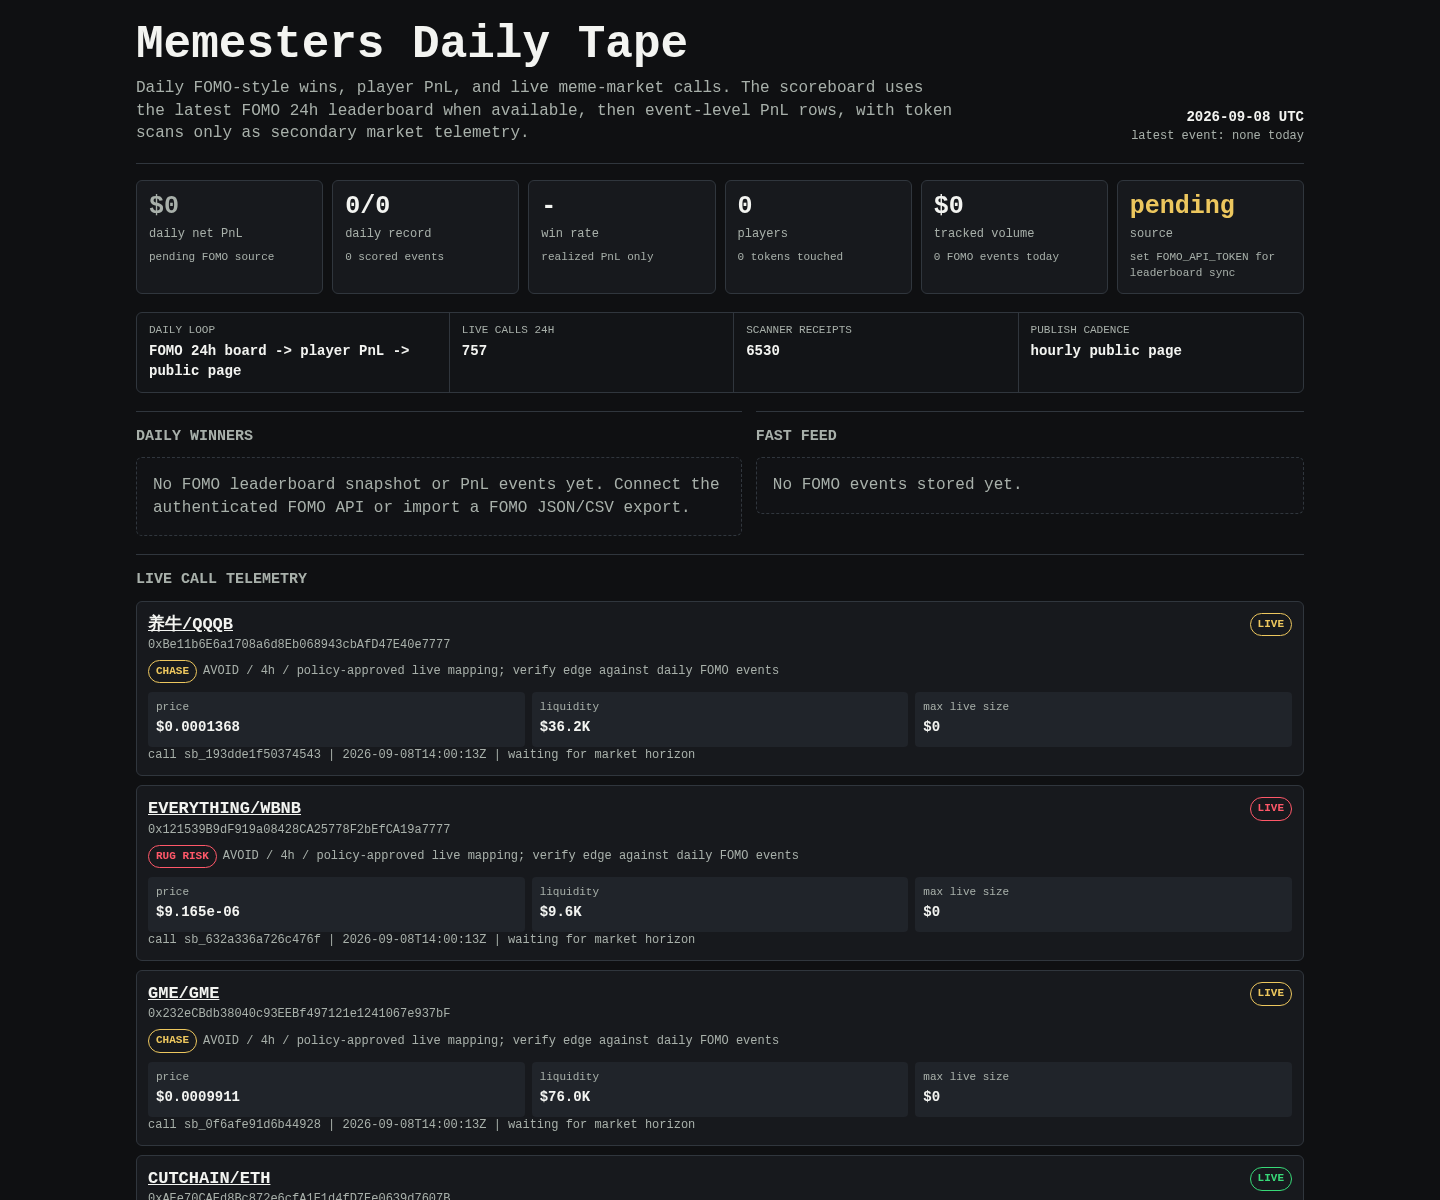
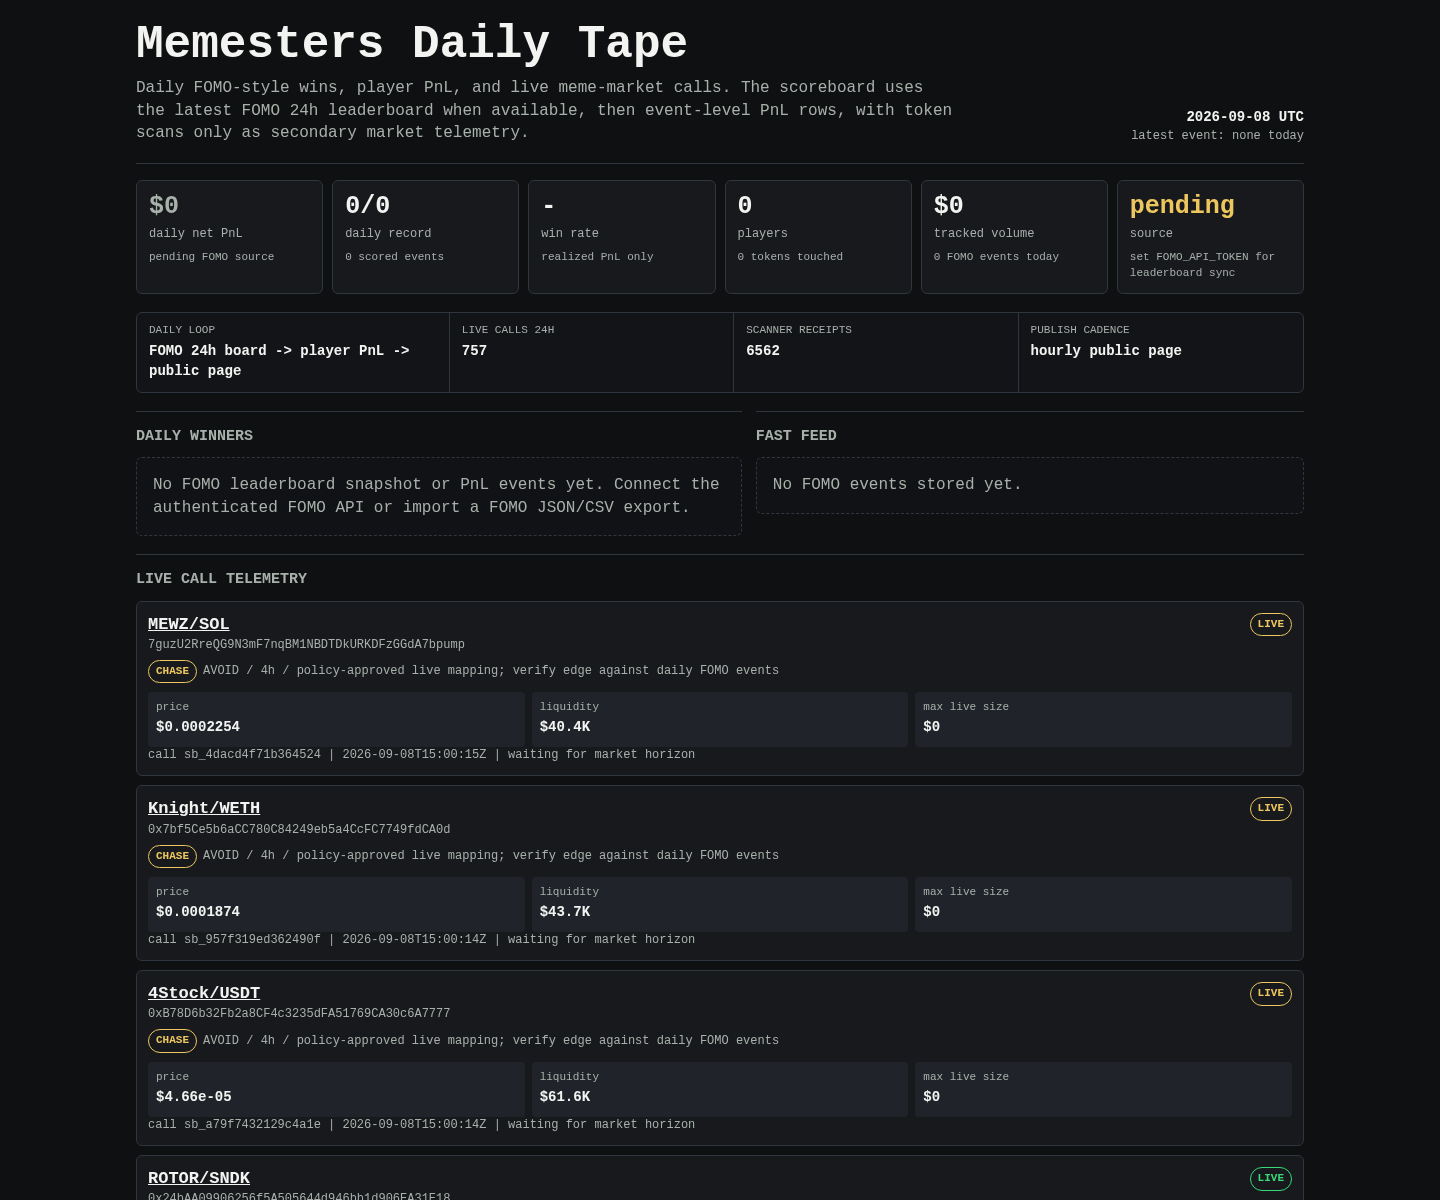
Update Memesters scoreboard

diff --git a/memesters/index.html b/memesters/index.html
@@ -150,7 +150,7 @@
     <div class="rail" aria-label="live operating loop">
       <div><span>daily loop</span><b>FOMO 24h board -> player PnL -> public page</b></div>
       <div><span>live calls 24h</span><b>757</b></div>
-      <div><span>scanner receipts</span><b>6530</b></div>
+      <div><span>scanner receipts</span><b>6562</b></div>
       <div><span>publish cadence</span><b>hourly public page</b></div>
     </div>
 
@@ -171,8 +171,8 @@
     <article class="receipt">
       <div class="receipt-head">
         <div>
-          <div class="pair"><a href="https://dexscreener.com/bsc/0x259a1f55db16469c0e1e3034feba8733e47dd4dd">养牛/QQQB</a></div>
-          <div class="addr">0xBe11b6E6a1708a6d8Eb068943cbAfD47E40e7777</div>
+          <div class="pair"><a href="https://dexscreener.com/solana/93apgx2vawkbi1dvvxtbjhcsqd69xvkgiqefv2qpwacf">MEWZ/SOL</a></div>
+          <div class="addr">7guzU2RreQG9N3mF7nqBM1NBDTDkURKDFzGGdA7bpump</div>
           <div class="addr policy-line">
             <span class="badge chase">CHASE</span>
             <span>AVOID / 4h / policy-approved live mapping; verify edge against daily FOMO events</span>
@@ -181,40 +181,19 @@
         <span class="badge chase">LIVE</span>
       </div>
       <div class="receipt-grid">
-        <div class="kv"><span>price</span><b>$0.0001368</b></div>
-        <div class="kv"><span>liquidity</span><b>$36.2K</b></div>
+        <div class="kv"><span>price</span><b>$0.0002254</b></div>
+        <div class="kv"><span>liquidity</span><b>$40.4K</b></div>
         <div class="kv"><span>max live size</span><b>$0</b></div>
       </div>
-      <div class="outcomes">call sb_193dde1f50374543 | 2026-09-08T14:00:13Z | waiting for market horizon</div>
+      <div class="outcomes">call sb_4dacd4f71b364524 | 2026-09-08T15:00:15Z | waiting for market horizon</div>
     </article>
     
 
     <article class="receipt">
       <div class="receipt-head">
         <div>
-          <div class="pair"><a href="https://dexscreener.com/bsc/0xb746cbcba7cfebb9752ec4aced53f336304e4366">EVERYTHING/WBNB</a></div>
-          <div class="addr">0x121539B9dF919a08428CA25778F2bEfCA19a7777</div>
-          <div class="addr policy-line">
-            <span class="badge rug-risk">RUG RISK</span>
-            <span>AVOID / 4h / policy-approved live mapping; verify edge against daily FOMO events</span>
-          </div>
-        </div>
-        <span class="badge rug-risk">LIVE</span>
-      </div>
-      <div class="receipt-grid">
-        <div class="kv"><span>price</span><b>$9.165e-06</b></div>
-        <div class="kv"><span>liquidity</span><b>$9.6K</b></div>
-        <div class="kv"><span>max live size</span><b>$0</b></div>
-      </div>
-      <div class="outcomes">call sb_632a336a726c476f | 2026-09-08T14:00:13Z | waiting for market horizon</div>
-    </article>
-    
-
-    <article class="receipt">
-      <div class="receipt-head">
-        <div>
-          <div class="pair"><a href="https://dexscreener.com/robinhood/0x859d334b7f0891a3eddf552db94d5a70b5849f027e066c46fd2c2cf2ffbc80ec">GME/GME</a></div>
-          <div class="addr">0x232eCBdb38040c93EEBf497121e1241067e937bF</div>
+          <div class="pair"><a href="https://dexscreener.com/robinhood/0x9dcd3297cd0349b1c0409e89417ed3a5ee35bef4">Knight/WETH</a></div>
+          <div class="addr">0x7bf5Ce5b6aCC780C84249eb5a4CcFC7749fdCA0d</div>
           <div class="addr policy-line">
             <span class="badge chase">CHASE</span>
             <span>AVOID / 4h / policy-approved live mapping; verify edge against daily FOMO events</span>
@@ -223,145 +202,19 @@
         <span class="badge chase">LIVE</span>
       </div>
       <div class="receipt-grid">
-        <div class="kv"><span>price</span><b>$0.0009911</b></div>
-        <div class="kv"><span>liquidity</span><b>$76.0K</b></div>
+        <div class="kv"><span>price</span><b>$0.0001874</b></div>
+        <div class="kv"><span>liquidity</span><b>$43.7K</b></div>
         <div class="kv"><span>max live size</span><b>$0</b></div>
       </div>
-      <div class="outcomes">call sb_0f6afe91d6b44928 | 2026-09-08T14:00:13Z | waiting for market horizon</div>
+      <div class="outcomes">call sb_957f319ed362490f | 2026-09-08T15:00:14Z | waiting for market horizon</div>
     </article>
     
 
     <article class="receipt">
       <div class="receipt-head">
         <div>
-          <div class="pair"><a href="https://dexscreener.com/robinhood/0xb4091c738e6b7f7140d838721348d38107240b05095b875c72702a6ea565cba6">CUTCHAIN/ETH</a></div>
-          <div class="addr">0xAEe70CAEd8Bc872e6cfA1E1d4fD7Ee0639d7607B</div>
-          <div class="addr policy-line">
-            <span class="badge early">EARLY</span>
-            <span>BUY / 1h / policy-approved live mapping; verify edge against daily FOMO events</span>
-          </div>
-        </div>
-        <span class="badge early">LIVE</span>
-      </div>
-      <div class="receipt-grid">
-        <div class="kv"><span>price</span><b>$9.454e-05</b></div>
-        <div class="kv"><span>liquidity</span><b>$28.2K</b></div>
-        <div class="kv"><span>max live size</span><b>$339</b></div>
-      </div>
-      <div class="outcomes">call sb_f6b70fbf320c42f7 | 2026-09-08T14:00:13Z | waiting for market horizon</div>
-    </article>
-    
-
-    <article class="receipt">
-      <div class="receipt-head">
-        <div>
-          <div class="pair"><a href="https://dexscreener.com/solana/harcsp1tb3kjmku5vmmzvneb1fptqmwewhzztusm2heh">HELIOS/SOL</a></div>
-          <div class="addr">BVZsoMQs7onokZNRtUW5nuZwgC4pD3Q6dgpXffnCpump</div>
-          <div class="addr policy-line">
-            <span class="badge early">EARLY</span>
-            <span>BUY / 1h / policy-approved live mapping; verify edge against daily FOMO events</span>
-          </div>
-        </div>
-        <span class="badge early">LIVE</span>
-      </div>
-      <div class="receipt-grid">
-        <div class="kv"><span>price</span><b>$3.536e-05</b></div>
-        <div class="kv"><span>liquidity</span><b>$14.2K</b></div>
-        <div class="kv"><span>max live size</span><b>$29</b></div>
-      </div>
-      <div class="outcomes">call sb_92449e3945d8453e | 2026-09-08T14:00:13Z | waiting for market horizon</div>
-    </article>
-    
-
-    <article class="receipt">
-      <div class="receipt-head">
-        <div>
-          <div class="pair"><a href="https://dexscreener.com/ethereum/0xb73aba09a9e0b1e80e5655d17c40420160a31b67">STARS/WETH</a></div>
-          <div class="addr">0xD71d0120072503eca8eeDe28db3EF6D30cae8BF0</div>
-          <div class="addr policy-line">
-            <span class="badge early">EARLY</span>
-            <span>BUY / 1h / policy-approved live mapping; verify edge against daily FOMO events</span>
-          </div>
-        </div>
-        <span class="badge early">LIVE</span>
-      </div>
-      <div class="receipt-grid">
-        <div class="kv"><span>price</span><b>$0.0004535</b></div>
-        <div class="kv"><span>liquidity</span><b>$44.3K</b></div>
-        <div class="kv"><span>max live size</span><b>$66</b></div>
-      </div>
-      <div class="outcomes">call sb_853b5f5b2a914e39 | 2026-09-08T14:00:12Z | waiting for market horizon</div>
-    </article>
-    
-
-    <article class="receipt">
-      <div class="receipt-head">
-        <div>
-          <div class="pair"><a href="https://dexscreener.com/robinhood/0x8c653197fa2caa94c4919b8e9cd07485cefb23a1d1b9237760125f7132144d47">WINDOGS/MSFT</a></div>
-          <div class="addr">0x4a87c129052c08387E95f9320CA30e4100d8c89f</div>
-          <div class="addr policy-line">
-            <span class="badge early">EARLY</span>
-            <span>BUY / 1h / policy-approved live mapping; verify edge against daily FOMO events</span>
-          </div>
-        </div>
-        <span class="badge early">LIVE</span>
-      </div>
-      <div class="receipt-grid">
-        <div class="kv"><span>price</span><b>$7.495e-05</b></div>
-        <div class="kv"><span>liquidity</span><b>$21.9K</b></div>
-        <div class="kv"><span>max live size</span><b>$215</b></div>
-      </div>
-      <div class="outcomes">call sb_6820166020d24de1 | 2026-09-08T14:00:12Z | waiting for market horizon</div>
-    </article>
-    
-
-    <article class="receipt">
-      <div class="receipt-head">
-        <div>
-          <div class="pair"><a href="https://dexscreener.com/solana/6kvf3u7yv8h66mbc6xc5vtfb44yzthxa6ge1xk6mrllc">FAUCET/xSOL</a></div>
-          <div class="addr">J7fdnqNcn52q5n5SJA65mtPuJXyf7KBVGgeUPzkxauL7</div>
-          <div class="addr policy-line">
-            <span class="badge early">EARLY</span>
-            <span>BUY / 1h / policy-approved live mapping; verify edge against daily FOMO events</span>
-          </div>
-        </div>
-        <span class="badge early">LIVE</span>
-      </div>
-      <div class="receipt-grid">
-        <div class="kv"><span>price</span><b>$6.734e-05</b></div>
-        <div class="kv"><span>liquidity</span><b>$22.2K</b></div>
-        <div class="kv"><span>max live size</span><b>$266</b></div>
-      </div>
-      <div class="outcomes">call sb_71ac5a489d694a91 | 2026-09-08T14:00:12Z | waiting for market horizon</div>
-    </article>
-    
-
-    <article class="receipt">
-      <div class="receipt-head">
-        <div>
-          <div class="pair"><a href="https://dexscreener.com/robinhood/0x9d11dc8a3e46f87fc8c7137cd562858396383bb2f48d4cbd4f8436ea712a5a07">SIGNAL/ETH</a></div>
-          <div class="addr">0xA01A789A9B9C55ac1052696775581191aD6fc27f</div>
-          <div class="addr policy-line">
-            <span class="badge rug-risk">RUG RISK</span>
-            <span>AVOID / 4h / policy-approved live mapping; verify edge against daily FOMO events</span>
-          </div>
-        </div>
-        <span class="badge rug-risk">LIVE</span>
-      </div>
-      <div class="receipt-grid">
-        <div class="kv"><span>price</span><b>$3.263e-05</b></div>
-        <div class="kv"><span>liquidity</span><b>$16.5K</b></div>
-        <div class="kv"><span>max live size</span><b>$0</b></div>
-      </div>
-      <div class="outcomes">call sb_4e63e8c8a7334754 | 2026-09-08T13:45:13Z | waiting for market horizon</div>
-    </article>
-    
-
-    <article class="receipt">
-      <div class="receipt-head">
-        <div>
-          <div class="pair"><a href="https://dexscreener.com/robinhood/0xb54487d2d14531c637d3bd8ff996db5607ae14ec">TRUMF/WETH</a></div>
-          <div class="addr">0xE5Cf55f3E3e8fD7daA0178357f4645A659648b39</div>
+          <div class="pair"><a href="https://dexscreener.com/bsc/0x893391aa480c03d88f61e96f4ee44fe3e9aaf247">4Stock/USDT</a></div>
+          <div class="addr">0xB78D6b32Fb2a8CF4c3235dFA51769CA30c6A7777</div>
           <div class="addr policy-line">
             <span class="badge chase">CHASE</span>
             <span>AVOID / 4h / policy-approved live mapping; verify edge against daily FOMO events</span>
@@ -370,11 +223,158 @@
         <span class="badge chase">LIVE</span>
       </div>
       <div class="receipt-grid">
-        <div class="kv"><span>price</span><b>$4.196e-06</b></div>
-        <div class="kv"><span>liquidity</span><b>$4.5K</b></div>
+        <div class="kv"><span>price</span><b>$4.66e-05</b></div>
+        <div class="kv"><span>liquidity</span><b>$61.6K</b></div>
         <div class="kv"><span>max live size</span><b>$0</b></div>
       </div>
-      <div class="outcomes">call sb_1948f2b2dda34e8f | 2026-09-08T13:45:13Z | waiting for market horizon</div>
+      <div class="outcomes">call sb_a79f7432129c4a1e | 2026-09-08T15:00:14Z | waiting for market horizon</div>
+    </article>
+    
+
+    <article class="receipt">
+      <div class="receipt-head">
+        <div>
+          <div class="pair"><a href="https://dexscreener.com/robinhood/0xd96714fb2b269d71cab49e35f94358359aca9a039673580fe503e585606cd78b">ROTOR/SNDK</a></div>
+          <div class="addr">0x24bAA09906256f5A505644d946bb1d906EA31E18</div>
+          <div class="addr policy-line">
+            <span class="badge early">EARLY</span>
+            <span>BUY / 1h / policy-approved live mapping; verify edge against daily FOMO events</span>
+          </div>
+        </div>
+        <span class="badge early">LIVE</span>
+      </div>
+      <div class="receipt-grid">
+        <div class="kv"><span>price</span><b>$2.372e-05</b></div>
+        <div class="kv"><span>liquidity</span><b>$23.6K</b></div>
+        <div class="kv"><span>max live size</span><b>$70</b></div>
+      </div>
+      <div class="outcomes">call sb_5b0a0b5da14a4a7e | 2026-09-08T15:00:14Z | waiting for market horizon</div>
+    </article>
+    
+
+    <article class="receipt">
+      <div class="receipt-head">
+        <div>
+          <div class="pair"><a href="https://dexscreener.com/robinhood/0x0a504567fa78c039aed9df5477a2dd26fde6290f">SGD/WETH</a></div>
+          <div class="addr">0xcd79F4F2ECEBd304e07438EA74D5a9e6BA4573e0</div>
+          <div class="addr policy-line">
+            <span class="badge chase">CHASE</span>
+            <span>AVOID / 4h / policy-approved live mapping; verify edge against daily FOMO events</span>
+          </div>
+        </div>
+        <span class="badge chase">LIVE</span>
+      </div>
+      <div class="receipt-grid">
+        <div class="kv"><span>price</span><b>$0.0001058</b></div>
+        <div class="kv"><span>liquidity</span><b>$32.8K</b></div>
+        <div class="kv"><span>max live size</span><b>$0</b></div>
+      </div>
+      <div class="outcomes">call sb_c76f85d526c64bb9 | 2026-09-08T15:00:14Z | waiting for market horizon</div>
+    </article>
+    
+
+    <article class="receipt">
+      <div class="receipt-head">
+        <div>
+          <div class="pair"><a href="https://dexscreener.com/bsc/0x72d7c5538514cbaeb5a77927db22fa7a987f07b5">困困喵崽/QQQB</a></div>
+          <div class="addr">0x9ed9c38E0faA3b639A40fF7184404E34Ac277777</div>
+          <div class="addr policy-line">
+            <span class="badge chase">CHASE</span>
+            <span>AVOID / 4h / policy-approved live mapping; verify edge against daily FOMO events</span>
+          </div>
+        </div>
+        <span class="badge chase">LIVE</span>
+      </div>
+      <div class="receipt-grid">
+        <div class="kv"><span>price</span><b>$1.947e-05</b></div>
+        <div class="kv"><span>liquidity</span><b>$18.8K</b></div>
+        <div class="kv"><span>max live size</span><b>$0</b></div>
+      </div>
+      <div class="outcomes">call sb_729fe6f0324d4412 | 2026-09-08T15:00:14Z | waiting for market horizon</div>
+    </article>
+    
+
+    <article class="receipt">
+      <div class="receipt-head">
+        <div>
+          <div class="pair"><a href="https://dexscreener.com/robinhood/0xdc9763ff06e2c96d3a748e382b25183b89b41df2">HDIT/WETH</a></div>
+          <div class="addr">0x17c3EF160C1545d6794eb62a17f2ED44B41C33A2</div>
+          <div class="addr policy-line">
+            <span class="badge early">EARLY</span>
+            <span>BUY / 1h / policy-approved live mapping; verify edge against daily FOMO events</span>
+          </div>
+        </div>
+        <span class="badge early">LIVE</span>
+      </div>
+      <div class="receipt-grid">
+        <div class="kv"><span>price</span><b>$5.567e-06</b></div>
+        <div class="kv"><span>liquidity</span><b>$7.3K</b></div>
+        <div class="kv"><span>max live size</span><b>$25</b></div>
+      </div>
+      <div class="outcomes">call sb_3b65eb4dc3634bab | 2026-09-08T15:00:14Z | waiting for market horizon</div>
+    </article>
+    
+
+    <article class="receipt">
+      <div class="receipt-head">
+        <div>
+          <div class="pair"><a href="https://dexscreener.com/robinhood/0xf332a1f4156df98d433ca8da5da30b96bcfa7b6ad3412d28639761a625d1849a">SGD/ETH</a></div>
+          <div class="addr">0x01307Ea7BB7CbEcc9B72b8AE8e3b2984E552D01B</div>
+          <div class="addr policy-line">
+            <span class="badge early">EARLY</span>
+            <span>BUY / 1h / policy-approved live mapping; verify edge against daily FOMO events</span>
+          </div>
+        </div>
+        <span class="badge early">LIVE</span>
+      </div>
+      <div class="receipt-grid">
+        <div class="kv"><span>price</span><b>$5.574e-05</b></div>
+        <div class="kv"><span>liquidity</span><b>$21.8K</b></div>
+        <div class="kv"><span>max live size</span><b>$194</b></div>
+      </div>
+      <div class="outcomes">call sb_9c473d87ca7147b8 | 2026-09-08T15:00:14Z | waiting for market horizon</div>
+    </article>
+    
+
+    <article class="receipt">
+      <div class="receipt-head">
+        <div>
+          <div class="pair"><a href="https://dexscreener.com/robinhood/0xc175a5c9ac16098f8e45eb14c9f106c8d0306de6a83b5ad1a470713716f30064">5555/SPY</a></div>
+          <div class="addr">0x72c8150e11BAc9215927A595Af2b80521Da15555</div>
+          <div class="addr policy-line">
+            <span class="badge chase">CHASE</span>
+            <span>AVOID / 4h / policy-approved live mapping; verify edge against daily FOMO events</span>
+          </div>
+        </div>
+        <span class="badge chase">LIVE</span>
+      </div>
+      <div class="receipt-grid">
+        <div class="kv"><span>price</span><b>$1.79e-05</b></div>
+        <div class="kv"><span>liquidity</span><b>$12.0K</b></div>
+        <div class="kv"><span>max live size</span><b>$0</b></div>
+      </div>
+      <div class="outcomes">call sb_62c0fdc5eaae40d4 | 2026-09-08T14:45:13Z | waiting for market horizon</div>
+    </article>
+    
+
+    <article class="receipt">
+      <div class="receipt-head">
+        <div>
+          <div class="pair"><a href="https://dexscreener.com/robinhood/0xa37494c314db35edade5afc28133b18d2cb20a37">CRYPTOHOOD/WETH</a></div>
+          <div class="addr">0xe6034F8A7773c890C0fa20042745E4857B1c7851</div>
+          <div class="addr policy-line">
+            <span class="badge chase">CHASE</span>
+            <span>AVOID / 4h / policy-approved live mapping; verify edge against daily FOMO events</span>
+          </div>
+        </div>
+        <span class="badge chase">LIVE</span>
+      </div>
+      <div class="receipt-grid">
+        <div class="kv"><span>price</span><b>$0.0002542</b></div>
+        <div class="kv"><span>liquidity</span><b>$79.6K</b></div>
+        <div class="kv"><span>max live size</span><b>$0</b></div>
+      </div>
+      <div class="outcomes">call sb_52712ca646174c5a | 2026-09-08T14:45:13Z | waiting for market horizon</div>
     </article>
     
     </section>
